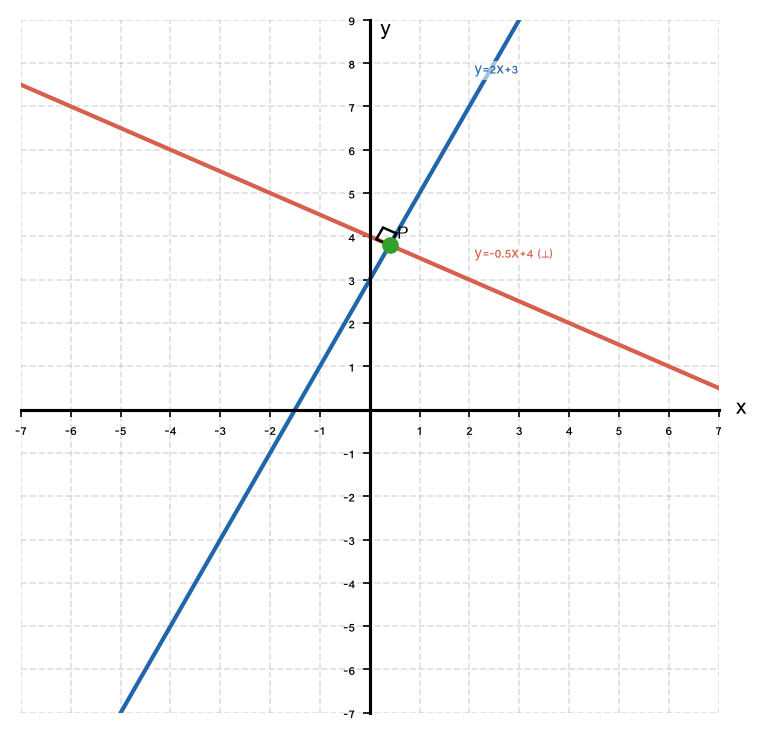
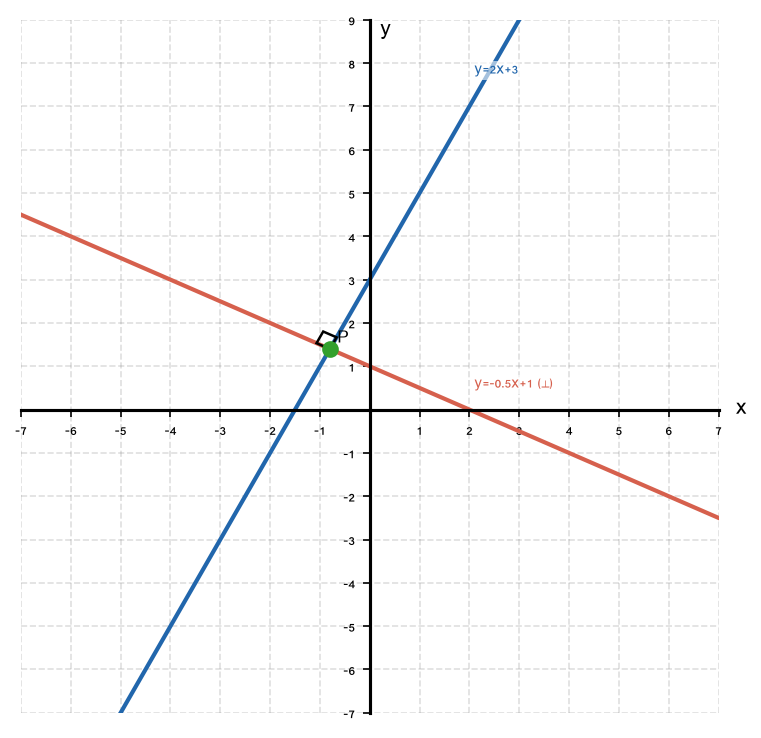
fix bugs in chapter 7 by quality check propmt

diff --git a/generate_ch7_graphs.py b/generate_ch7_graphs.py
@@ -475,8 +475,9 @@ def _f13(n, lines, pts=None, xlim=(-7,7), ylim=(-7,9), ra=None):
                     size=ra[3] if len(ra) > 3 else 0.3)
     save(fig, f'7_13_ex{n:02d}.png')
 
-_f13(1, [(2,3,'y=2x+3'),(-0.5,4,'y=-0.5x+4 (\u22a5)')],
-     pts=[(0.4,3.8,'P',.15,.15,CI)], ra=((0.4,3.8),(1,2),(-2,1)))
+# Ex 1: y=2x+3 and y=-0.5x+1; intersection at (-0.8, 1.4)
+_f13(1, [(2,3,'y=2x+3'),(-0.5,1,'y=-0.5x+1 (\u22a5)')],
+     pts=[(-0.8,1.4,'P',.15,.15,CI)], ra=((-0.8,1.4),(1,2),(-2,1)))
 _f13(2, [(3,1,'y=3x+1'),(3,-2,'y=3x-2 (\u2225, not \u22a5)')])
 _f13(3, [(4,5,'y=4x+5'),(-0.25,6.5,'y=-x/4+6.5 (\u22a5)')], ylim=(-3,15))
 _f13(4, [(-1/3,2,'y=-x/3+2'),(3,2,'y=3x+2 (\u22a5)')])

diff --git a/scripts/פרומפט_בדיקת_איכות_קובץ_תרגילים.md b/scripts/פרומפט_בדיקת_איכות_קובץ_תרגילים.md
@@ -35,6 +35,7 @@
 |-----|--------|
 | 3, 7, 8, 9, 10 | `generate_graphs.py` / `generate_ch7_graphs.py` וכו' |
 | 6 – מבוא להנדסה | `generate_ch6_graphs.py` |
+| 7 – הנדסה אנליטית | `generate_ch7_graphs.py` |
 
 לכל תת-נושא יש פונקציה `gen_N` ב-`GENERATORS`. ודא שהפונקציה מטפלת **בנפרד** בכל מספר תרגיל (`if n == 9`, `elif n == 10`...) — לא צורה גנרית אחת לכל התרגילים.
 
@@ -62,6 +63,17 @@
 
 - האם התמונה **שונה** מתרגילים אחרים באותו קובץ? (צורת L גנרית זהה בכל התרגילים = שגיאה קריטית בקוד).
 - האם גאומטריית הצורה תואמת את הממדים **בדיוק** (למשל U עם $12 \times 10$ וחיתוך $8 \times 6$ מהחלק העליון — לא מלבן או L אחר)?
+- **מיקום התמונה ב-Markdown (חובה):** שורת `![תרגיל N](images/...)` חייבת להופיע **מיד אחרי** טקסט תרגיל $N$, לפני `---` ולפני כותרת הרמה הבאה. תמונה שמופיעה אחרי `## רמה 2` / `## רמה 3` אבל מתייגת תרגיל 8 / 16 = שגיאה קריטית (התלמיד רואה גרף לא במקום).
+
+### עבור גרפי ישרים בהנדסה אנליטית (פרק 7 — `generate_ch7_graphs.py`)
+
+**זו הבעיה הכי נפוצה בפרק 7!** בדיקת ניצבות/מקביליות בלבד **אינה מספיקה**.
+
+- אם בשאלה מופיעות משוואות מפורשות $y = mx + b$ (או $ax+by+c=0$ שהומרו ל-$y=ax+b$) — **כל פרמטר** (שיפוע $m$ **וגם** מספר חופשי $b$) בגרף חייב להתאים **בדיוק** לטקסט.
+- **לא מספיק** לוודא רק ש-$m_1 \cdot m_2 = -1$ (ניצבות) או $m_1 = m_2$ (מקביליות). שגיאה נפוצה: שיפוע נכון אבל $b$ שגוי בגרף (למשל בטקסט $y=-\frac{1}{2}x+1$ ובגרף $y=-0.5x+4$).
+- תוויות המשוואה **על הגרף עצמו** (למשל `y=2x+3`, `y=-0.5x+4`) חייבות להתאים לנוסח בשאלה — בדוק בעין על ה-PNG.
+- חיתוך עם ציר $y$ ($b$) ונקודות חיתוך מסומנות — חייבים להתאים לחישוב מהמשוואות **בטקסט**, לא מהקוד.
+- **אימות צולב חובה:** לפני סיום, השווה את הפרמטרים $(m,b)$ ב-`generate_ch7_graphs.py` (למשל `_f13(1, [(2,3),(-0.5,1),...])`) עם המשוואות בקובץ ה-Markdown. אם יש אי-התאמה — תקן את הקוד והרץ מחדש את ה-PNG.
 
 ### עבור גרפים (פונקציות, נתונים סטטיסטיים, גרפי מרחק-זמן וכד')
 
@@ -185,5 +197,6 @@ python3 -c "from PIL import Image; im=Image.open('PATH.png'); w,h=im.size; print
 
 ### גרפים (פרקים אחרים)
 - עדכן נתונים ב-`generate_graphs.py` (או סקריפט הפרק הרלוונטי).
+- בפרק 7: עדכן את הפרמטרים $(m,b)$ ב-`_fN(...)` / `_f17(...)` ב-`generate_ch7_graphs.py` כך שיתאימו **בדיוק** למשוואות ב-Markdown (שיפוע **וגם** מספר חופשי).
 - ודא ש-`make_graph` / `coord_plane` מיישרים קווי רשת לערכי הנתונים.
-- הרץ מחדש רק את התת-נושא, פתח PNG, אשר קריאות + יחס גובה-רוחב + אי-חפיפה.
+- הרץ מחדש רק את התת-נושא, פתח PNG, אשר קריאות + יחס גובה-רוחב + אי-חפיפה + **התאמת משוואות על הגרף לטקסט**.

diff --git a/7 - הנדסה אנליטית/13_ישרים_ניצבים_ויישומן_בחישובים.md b/7 - הנדסה אנליטית/13_ישרים_ניצבים_ויישומן_בחישובים.md
@@ -59,11 +59,11 @@ $\ell_2$
 8. בדוק: האם שני הישרים ניצבים?
 $$y = \dfrac{2}{3}x \quad \text{-} \quad y = -\dfrac{3}{2}x + 5$$
 
+![תרגיל 8](images/7_13_ex08.png)
+
 ---
 
 ## רמה 2: תרגול שוטף ומשולב (תרגילים 9–16)
-
-![תרגיל 8](images/7_13_ex08.png)
 
 9. מצא ישר הניצב ל-
 $y = 3x - 2$
@@ -132,11 +132,11 @@ $y = ax + b$
 ובדוק אם הם ניצבים:
 $$\ell_1:\; 2x - y + 3 = 0 \quad \text{-} \quad \ell_2:\; x + 2y - 4 = 0$$
 
+![תרגיל 16](images/7_13_ex16.png)
+
 ---
 
 ## רמה 3: רמת בחינת מה"ט (תרגילים 17–20)
-
-![תרגיל 16](images/7_13_ex16.png)
 
 17. משולש ישר-זווית
 $ACB$:
@@ -305,7 +305,7 @@ $y = 2x + 1$
 
 19.
 א.
-$y = \dfrac{1}{2}x + 2$
+$y = \dfrac{1}{2}x$
 ב.
 שיפוע הגובה מ-
 $A$

diff --git a/7 - הנדסה אנליטית/1_חזרה_קצרה_ויישור_קו_מערכת_הצירים_וסימון_נקודות_במישור.md b/7 - הנדסה אנליטית/1_חזרה_קצרה_ויישור_קו_מערכת_הצירים_וסימון_נקודות_במישור.md
@@ -48,11 +48,11 @@ $$F(5, 0)$$
 
 8. כתוב את הקואורדינטות של נקודת הראשית (מרכז מערכת הצירים).
 
+![תרגיל 8](images/7_1_ex08.png)
+
 ---
 
 ## רמה 2: תרגול שוטף ומשולב (תרגילים 9–16)
-
-![תרגיל 8](images/7_1_ex08.png)
 
 9. הנקודות
 $$P\!\left(-\tfrac{1}{2},\,3\right)$$
@@ -118,11 +118,11 @@ $$A(-3, 0)$$
 $$B(0, -3)$$
 . האם שתיהן נמצאות על אותו ציר? הסבר.
 
+![תרגיל 16](images/7_1_ex16.png)
+
 ---
 
 ## רמה 3: רמת בחינת מה"ט (תרגילים 17–20)
-
-![תרגיל 16](images/7_1_ex16.png)
 
 17. אדריכל מתכנן חדר מלבני. הוא ממקם את פינת החדר
 $$A$$

diff --git a/7 - הנדסה אנליטית/17_התרת_מערכות_משוואות_ממעלה_ראשונה_גרפית.md b/7 - הנדסה אנליטית/17_התרת_מערכות_משוואות_ממעלה_ראשונה_גרפית.md
@@ -72,11 +72,11 @@ $$y = -x + 6$$
 $$y = 5x - 3$$
 $$y = 2x + 6$$
 
+![תרגיל 8](images/7_17_ex08.png)
+
 ---
 
 ## רמה 2: תרגול שוטף ומשולב (תרגילים 9–16)
-
-![תרגיל 8](images/7_17_ex08.png)
 
 **9.** פתור את המערכת (הבע תחילה כל משוואה בצורת
 $y = \ldots$
@@ -142,11 +142,11 @@ $$2x + 3y = 12$$
 $$y = -\tfrac{2}{3}x + 4$$
 $$y = \tfrac{1}{3}x - 2$$
 
+![תרגיל 16](images/7_17_ex16.png)
+
 ---
 
 ## רמה 3: רמת בחינת מה"ט (תרגילים 17–20)
-
-![תרגיל 16](images/7_17_ex16.png)
 
 **17.** שתי צינורות מים נפגשות בנקודת חיבור. צינור א' עוקב אחר הישר:
 $$y = 3x + 9$$

diff --git a/7 - הנדסה אנליטית/21_יישום_גיאומטריה_אנליטית_בצורות_הנדסיות.md b/7 - הנדסה אנליטית/21_יישום_גיאומטריה_אנליטית_בצורות_הנדסיות.md
@@ -81,11 +81,11 @@ $BC$
 במשולש:
 $$A(0,\ 0),\quad B(5,\ 0),\quad C(5,\ 5)$$
 
+![תרגיל 8](images/7_21_ex08.png)
+
 ---
 
 ## רמה 2: תרגול שוטף ומשולב (תרגילים 9–16)
-
-![תרגיל 8](images/7_21_ex08.png)
 
 **9.** במשולש עם קודקודים:
 $$A(-3,\ 0),\quad B(5,\ 0),\quad C(1,\ 4)$$
@@ -205,11 +205,11 @@ $$P(2,\ 5)$$
 ומאונך לישר:
 $$y = 3x - 1$$
 
+![תרגיל 16](images/7_21_ex16.png)
+
 ---
 
 ## רמה 3: רמת בחינת מה"ט (תרגילים 17–20)
-
-![תרגיל 16](images/7_21_ex16.png)
 
 **17.** בתכנית בניין, קיר ראשון עוקב אחר המשוואה:
 $$y = \tfrac{3}{4}x + 6$$

diff --git a/7 - הנדסה אנליטית/20_זיהוי_מקבילית_במערכת_צירים.md b/7 - הנדסה אנליטית/20_זיהוי_מקבילית_במערכת_צירים.md
@@ -74,11 +74,11 @@ $$A(0,\ 0),\quad B(5,\ 0),\quad C(6,\ 3),\quad D(2,\ 3)$$
 **8.**
 $$A(-1,\ 1),\quad B(3,\ 1),\quad C(4,\ 4),\quad D(0,\ 4)$$
 
+![תרגיל 8](images/7_20_ex08.png)
+
 ---
 
 ## רמה 2: תרגול שוטף ומשולב (תרגילים 9–16)
-
-![תרגיל 8](images/7_20_ex08.png)
 
 **9.** נתון:
 $$A(0,\ 0),\quad B(4,\ 0),\quad D(2,\ 3)$$
@@ -166,11 +166,11 @@ $k$
 $ABCD$
 תהיה מקבילית.
 
+![תרגיל 16](images/7_20_ex16.png)
+
 ---
 
 ## רמה 3: רמת בחינת מה"ט (תרגילים 17–20)
-
-![תרגיל 16](images/7_20_ex16.png)
 
 **17.** מלבן
 $ABCD$

diff --git a/7 - הנדסה אנליטית/18_המשמעות_הגיאומטרית_של_מספר_שורשי_המערכת.md b/7 - הנדסה אנליטית/18_המשמעות_הגיאומטרית_של_מספר_שורשי_המערכת.md
@@ -74,11 +74,11 @@ $$y = 2x - 3$$
 $$y = 2x + 1$$
 $$4x - 2y + 2 = 0$$
 
+![תרגיל 8](images/7_18_ex08.png)
+
 ---
 
 ## רמה 2: תרגול שוטף ומשולב (תרגילים 9–16)
-
-![תרגיל 8](images/7_18_ex08.png)
 
 **9.** נתונה המערכת:
 $$y = kx + 3$$
@@ -188,11 +188,11 @@ $k$
 $k$
 אין פתרון?
 
+![תרגיל 16](images/7_18_ex16.png)
+
 ---
 
 ## רמה 3: רמת בחינת מה"ט (תרגילים 17–20)
-
-![תרגיל 16](images/7_18_ex16.png)
 
 **17.** מהנדס תאורה מתכנן שני מעגלים חשמליים. מעגל א':
 $$y = -2x + 10$$

diff --git a/7 - הנדסה אנליטית/5_שרטוט_קו_ישר_בעזרת_טבלת_נתונים.md b/7 - הנדסה אנליטית/5_שרטוט_קו_ישר_בעזרת_טבלת_נתונים.md
@@ -66,11 +66,11 @@ $$y = -3x + 6$$
 $$x \in \{-1,\,0,\,1,\,2,\,3\}$$
 .
 
+![תרגיל 8](images/7_5_ex08.png)
+
 ---
 
 ## רמה 2: תרגול שוטף ומשולב (תרגילים 9–16)
-
-![תרגיל 8](images/7_5_ex08.png)
 
 9. בנה טבלת ערכים לפונקציה
 $$y = \frac{1}{2}x - 3$$
@@ -153,11 +153,11 @@ $$a$$
 $$x \in \{-2,\,0,\,2,\,4,\,6\}$$
 .
 
+![תרגיל 16](images/7_5_ex16.png)
+
 ---
 
 ## רמה 3: רמת בחינת מה"ט (תרגילים 17–20)
-
-![תרגיל 16](images/7_5_ex16.png)
 
 17. שני ישרים נתונים:
 $$\ell_1:\; y = 2x - 4$$

diff --git a/7 - הנדסה אנליטית/4_תיאור_גרפי_ואלגברי_של_קו_ישר_וזיהוי_נקודות_שעליו.md b/7 - הנדסה אנליטית/4_תיאור_גרפי_ואלגברי_של_קו_ישר_וזיהוי_נקודות_שעליו.md
@@ -82,11 +82,11 @@ $$y$$
 $$x = 6$$
 .
 
+![תרגיל 8](images/7_4_ex08.png)
+
 ---
 
 ## רמה 2: תרגול שוטף ומשולב (תרגילים 9–16)
-
-![תרגיל 8](images/7_4_ex08.png)
 
 9. נתון הישר
 $$y = -3x + 7$$
@@ -167,11 +167,11 @@ $$y = 2x - 5$$
 
 $$A(1,\,-3), \quad B(3,\,1), \quad C(-1,\,-7), \quad D(0,\,-4)$$
 
+![תרגיל 16](images/7_4_ex16.png)
+
 ---
 
 ## רמה 3: רמת בחינת מה"ט (תרגילים 17–20)
-
-![תרגיל 16](images/7_4_ex16.png)
 
 17. ישר
 $$\ell_1$$

diff --git a/7 - הנדסה אנליטית/12_ישרים_מקבילים_ויישומן_בחישובים.md b/7 - הנדסה אנליטית/12_ישרים_מקבילים_ויישומן_בחישובים.md
@@ -56,11 +56,11 @@ $y = x$
 ועובר דרך הנקודה
 $(2,\,7)$.
 
+![תרגיל 8](images/7_12_ex08.png)
+
 ---
 
 ## רמה 2: תרגול שוטף ומשולב (תרגילים 9–16)
-
-![תרגיל 8](images/7_12_ex08.png)
 
 9. הבא כל ישר לצורה
 $y = ax + b$
@@ -129,11 +129,11 @@ $\ell_2$
 $y$
 .
 
+![תרגיל 16](images/7_12_ex16.png)
+
 ---
 
 ## רמה 3: רמת בחינת מה"ט (תרגילים 17–20)
-
-![תרגיל 16](images/7_12_ex16.png)
 
 17. מקבילית
 $ABCD$:

diff --git a/7 - הנדסה אנליטית/16_חישוב_מרחק_בין_שתי_נקודות.md b/7 - הנדסה אנליטית/16_חישוב_מרחק_בין_שתי_נקודות.md
@@ -104,11 +104,11 @@ $$A(-6,\ 1) \quad \text{-} \quad B(6,\ 6)$$
 **16.** חשב את המרחק בין הנקודות:
 $$A\!\left(\tfrac{1}{2},\ 1\right) \quad \text{-} \quad B\!\left(\tfrac{5}{2},\ 4\right)$$
 
+![תרגיל 16](images/7_16_ex16.png)
+
 ---
 
 ## רמה 3: רמת בחינת מה"ט (תרגילים 17–20)
-
-![תרגיל 16](images/7_16_ex16.png)
 
 **17.** שני עמודי חשמל ממוקמים ב-:
 $$A(0,\ 0) \quad \text{-} \quad B(6,\ 8)$$
